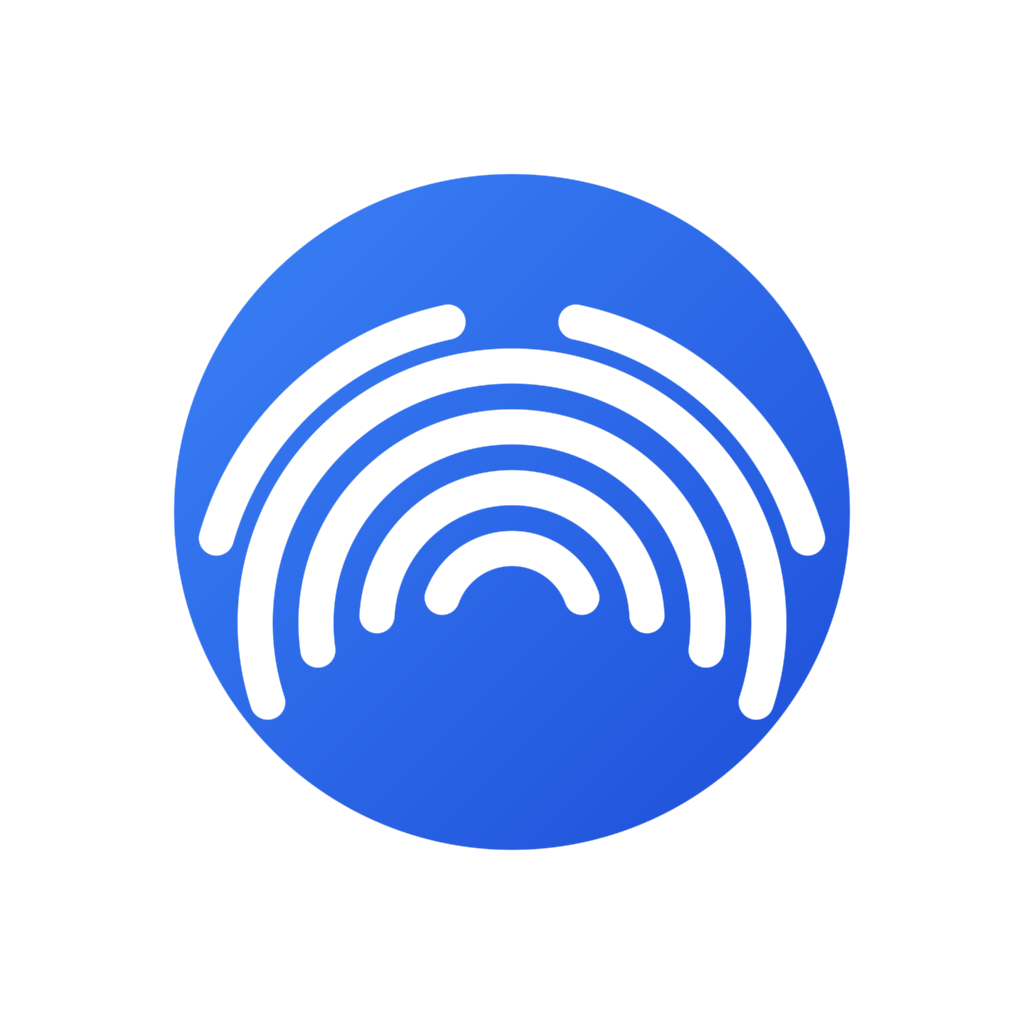
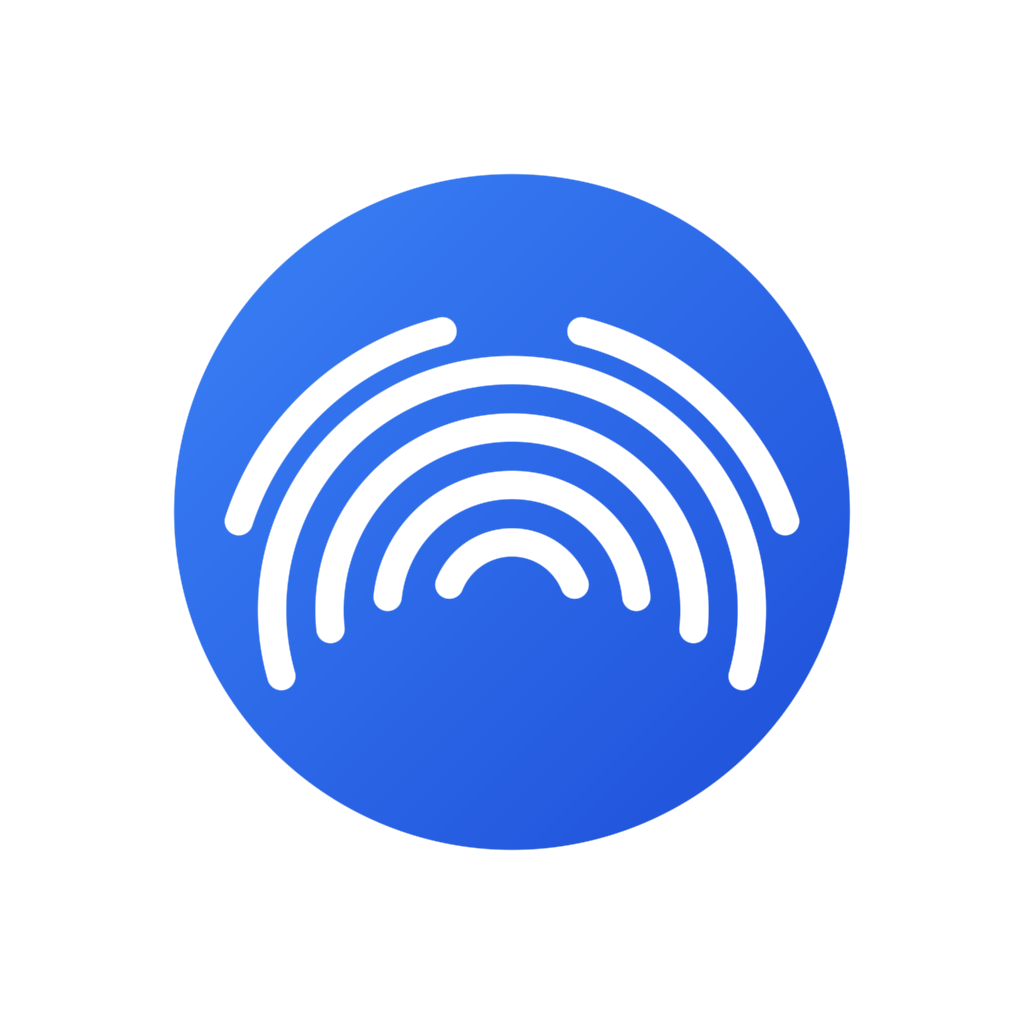
polish(mobile): refine the mark, and add haptics where something is committed
LOGO

Thinner ridges (halfWidth 0.026 -> 0.021), a tighter stack, and the outer
fragments pulled in from the plate edge.

The old weights were tuned to survive a 48px launcher icon, but the same
geometry renders in-app at 46px, where the ridges nearly touched and the mark
read as a solid blue disc. Thinner strokes keep the gaps legible small and look
sharper large — a launcher icon has more room to spare than a screen header.

In-app sizes come down with it (46 -> 38 in headers, 62 -> 54 on sign-in). The
mark is identity, not the subject of the screen; at 46px it competed with the
greeting beside it.

All of that is one edit to logo-geometry.json, which both the animated SVG and
the PNG rasteriser read — so the native splash and the animated one still hand
over without a visible jump.

HAPTICS

Check-in, check-out and filing leave now confirm physically, and a refused
check-in buzzes differently from a successful one. That matters more here than
in most apps: someone checking in at a gate is usually not looking at the
screen when they tap.

Wrapped rather than called directly. Web has no Taptic Engine and expo-haptics
rejects there, so an unguarded call would turn a successful check-in into a
caught error for nothing. Every call is fire-and-forget — feedback that fails
is never worth failing the action it decorates.

Deliberately sparing: only where something was committed or refused, plus
selecting a leave type. Buzzing on navigation is what makes an app feel cheap
[…]

Changed region(s): [[0.1875, 0.2812, 0.8125, 0.7188]]

diff --git a/mobile-rn/app/home.tsx b/mobile-rn/app/home.tsx
@@ -25,6 +25,7 @@ import {
 } from '../components/Icons'
 import TabBar from '../components/TabBar'
 import { useAuth } from '../lib/auth'
+import { haptics } from '../lib/haptics'
 import { roleSatisfies } from '../lib/roles'
 import {
   checkIn,
@@ -144,6 +145,7 @@ export default function HomeRoute() {
       // early failure, not the control.
       if (enforcesGeofence(state.site)) {
         if (!coords) {
+          haptics.error()
           setError('Location is required to check in at this site. Enable location access.')
           return
         }
@@ -152,6 +154,7 @@ export default function HomeRoute() {
           longitude: state.site!.longitude!,
         })
         if (away > state.site!.radius_m) {
+          haptics.error()
           setError(
             `You are ${Math.round(away)} m from ${state.site!.name}, outside its ${state.site!.radius_m} m zone.`,
           )
@@ -160,6 +163,7 @@ export default function HomeRoute() {
       }
 
       await checkIn(state.employee.id, state.site?.id ?? null, coords)
+      haptics.success()
       setNotice('Checked in.')
       await load()
     } catch (err) {
@@ -176,6 +180,7 @@ export default function HomeRoute() {
     setNotice(null)
     try {
       await checkOut(state.today.id, await readLocation())
+      haptics.success()
       setNotice('Checked out.')
       await load()
     } catch (err) {
@@ -205,7 +210,7 @@ export default function HomeRoute() {
         showsVerticalScrollIndicator={false}
       >
         <Animated.View entering={FadeInUp.duration(420)} style={styles.header}>
-          <GeoAttLogo size={46} static />
+          <GeoAttLogo size={38} static />
           <View style={{ marginLeft: 12, flex: 1 }}>
             <Text style={styles.hello}>Hi, {greeting}</Text>
             <Text style={styles.sub}>

diff --git a/mobile-rn/lib/haptics.ts b/mobile-rn/lib/haptics.ts
@@ -1,0 +1,32 @@
+import { Platform } from 'react-native'
+import * as Haptics from 'expo-haptics'
+
+/**
+ * Haptic feedback for actions that change something.
+ *
+ * Wrapped rather than called directly for two reasons. Web has no Taptic
+ * Engine and `expo-haptics` rejects there, so an unguarded call turns a
+ * successful check-in into a caught error for no reason. And every call is
+ * fire-and-forget: feedback that fails is never worth failing the action it
+ * was decorating.
+ *
+ * Used sparingly and only where something was committed — a check-in, a leave
+ * request, an error. Buzzing on navigation is what makes an app feel cheap
+ * rather than considered.
+ */
+const enabled = Platform.OS === 'ios' || Platform.OS === 'android'
+
+export const haptics = {
+  /** A write succeeded. */
+  success() {
+    if (enabled) void Haptics.notificationAsync(Haptics.NotificationFeedbackType.Success).catch(() => {})
+  },
+  /** A write was refused — a geofence miss, an overlapping leave. */
+  error() {
+    if (enabled) void Haptics.notificationAsync(Haptics.NotificationFeedbackType.Error).catch(() => {})
+  },
+  /** A meaningful selection, like switching leave type. */
+  select() {
+    if (enabled) void Haptics.selectionAsync().catch(() => {})
+  },
+}

diff --git a/mobile-rn/app/leave.tsx b/mobile-rn/app/leave.tsx
@@ -18,6 +18,7 @@ import { useSafeAreaInsets } from 'react-native-safe-area-context'
 import Screen from '../components/Screen'
 import TabBar from '../components/TabBar'
 import { useAuth } from '../lib/auth'
+import { haptics } from '../lib/haptics'
 import { roleSatisfies } from '../lib/roles'
 import {
   applyLeave,
@@ -104,6 +105,7 @@ export default function LeaveRoute() {
     setBusy(true)
     try {
       await applyLeave({ employeeId, leaveType: type, startDate: start, endDate: end, reason })
+      haptics.success()
       setNotice('Request submitted. HR will review it.')
       setReason('')
       await load()
@@ -167,7 +169,10 @@ export default function LeaveRoute() {
                     return (
                       <Pressable
                         key={t.id}
-                        onPress={() => setType(t.name)}
+                        onPress={() => {
+                    haptics.select()
+                    setType(t.name)
+                  }}
                         style={[styles.chip, active && styles.chipActive]}
                         accessibilityRole="button"
                         accessibilityState={{ selected: active }}

diff --git a/mobile-rn/app/profile.tsx b/mobile-rn/app/profile.tsx
@@ -76,7 +76,7 @@ export default function ProfileRoute() {
 
         <Animated.View entering={FadeInUp.duration(420)} style={styles.card}>
           <View style={styles.identity}>
-            <GeoAttLogo size={52} static />
+            <GeoAttLogo size={44} static />
             <View style={{ marginLeft: 14, flex: 1 }}>
               <Text style={styles.name}>{employee?.full_name ?? user?.email ?? ''}</Text>
               <Text style={styles.email}>{employee?.email ?? user?.email ?? ''}</Text>

diff --git a/mobile-rn/app/console.tsx b/mobile-rn/app/console.tsx
@@ -57,7 +57,7 @@ export default function ConsoleRoute() {
         showsVerticalScrollIndicator={false}
       >
         <Animated.View entering={FadeInUp.duration(420)} style={styles.header}>
-          <GeoAttLogo size={46} static />
+          <GeoAttLogo size={38} static />
           <View style={{ marginLeft: 12, flex: 1 }}>
             <Text style={styles.hello}>Hi, {name}</Text>
             <Text style={styles.sub}>{role ? roleLabel[role] : ''}</Text>

diff --git a/mobile-rn/app/login.tsx b/mobile-rn/app/login.tsx
@@ -108,7 +108,7 @@ export default function LoginRoute() {
           showsVerticalScrollIndicator={false}
         >
           <Animated.View entering={FadeInDown.duration(520)} style={styles.header}>
-            <GeoAttLogo size={62} static />
+            <GeoAttLogo size={54} static />
             <Text style={styles.brand}>geoAtt</Text>
             <Text style={styles.brandTag}>Attendance & Workforce</Text>
           </Animated.View>
